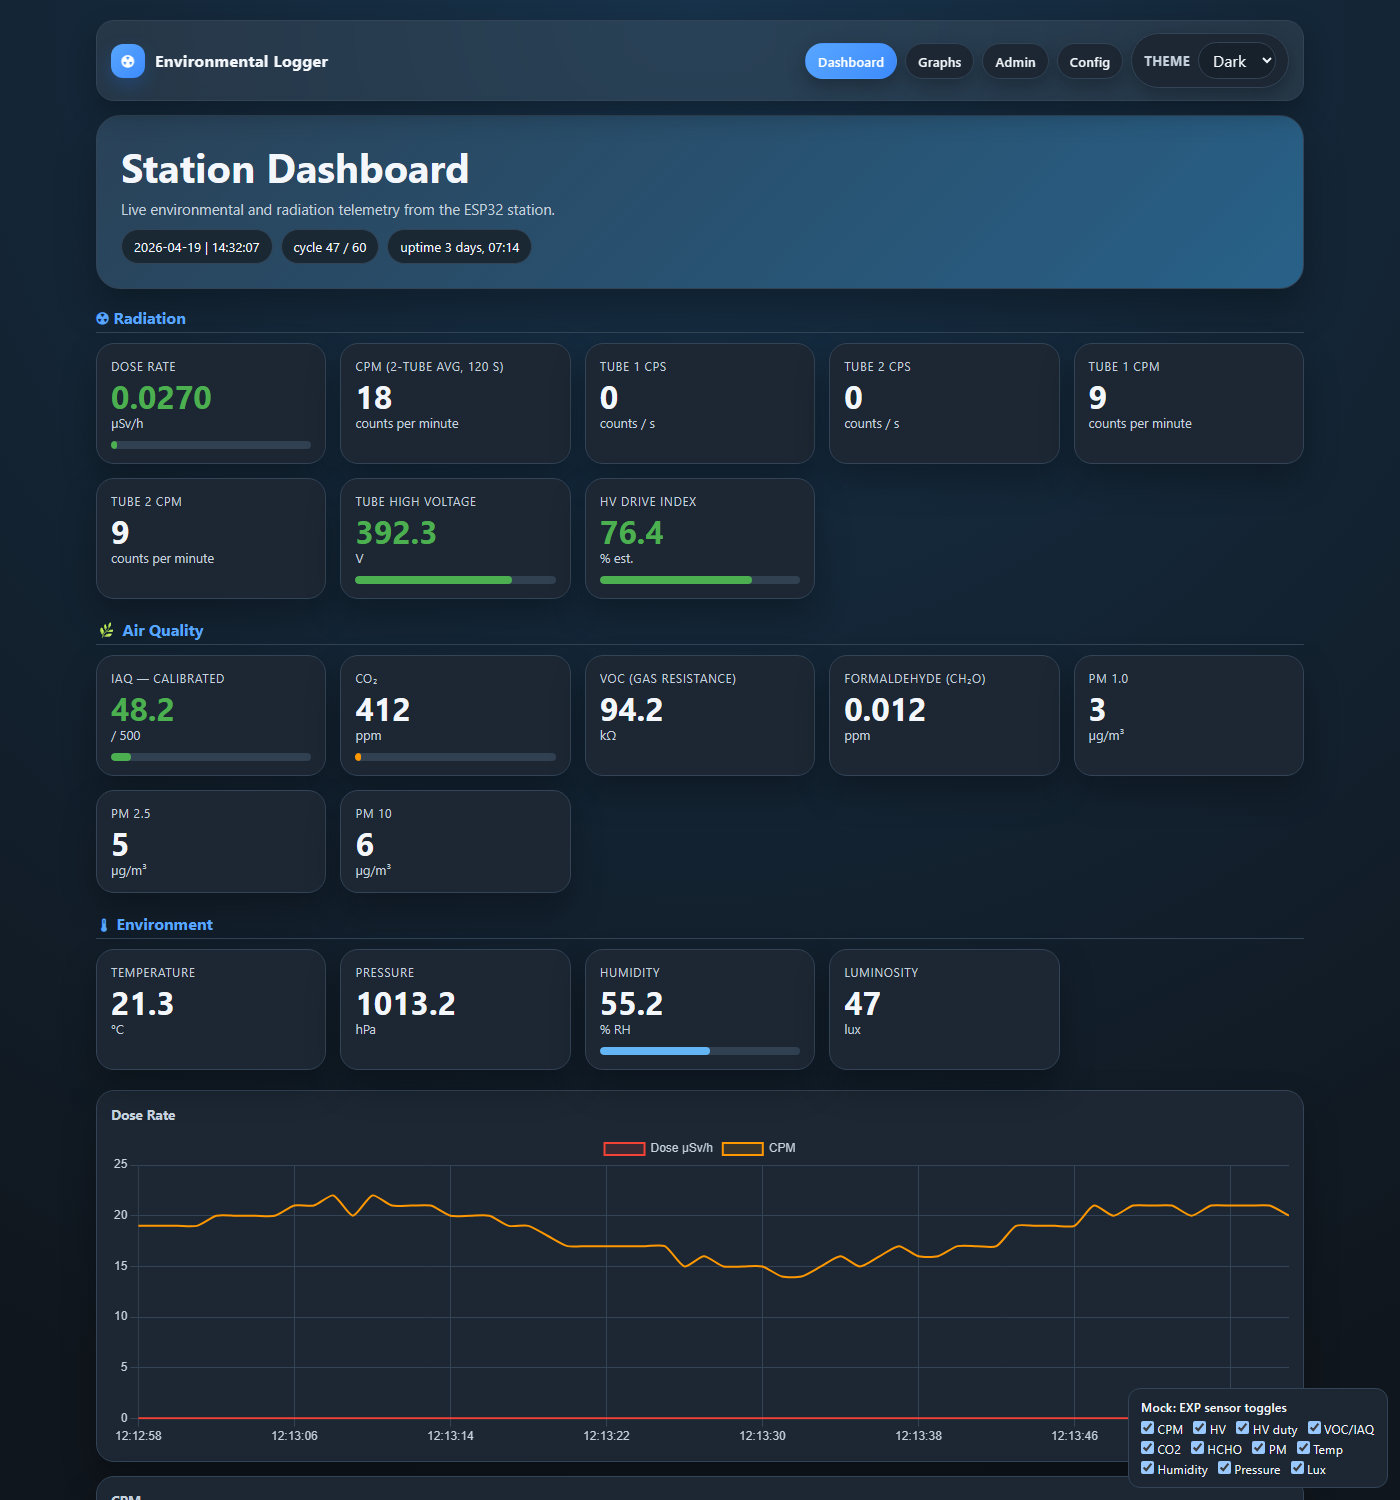
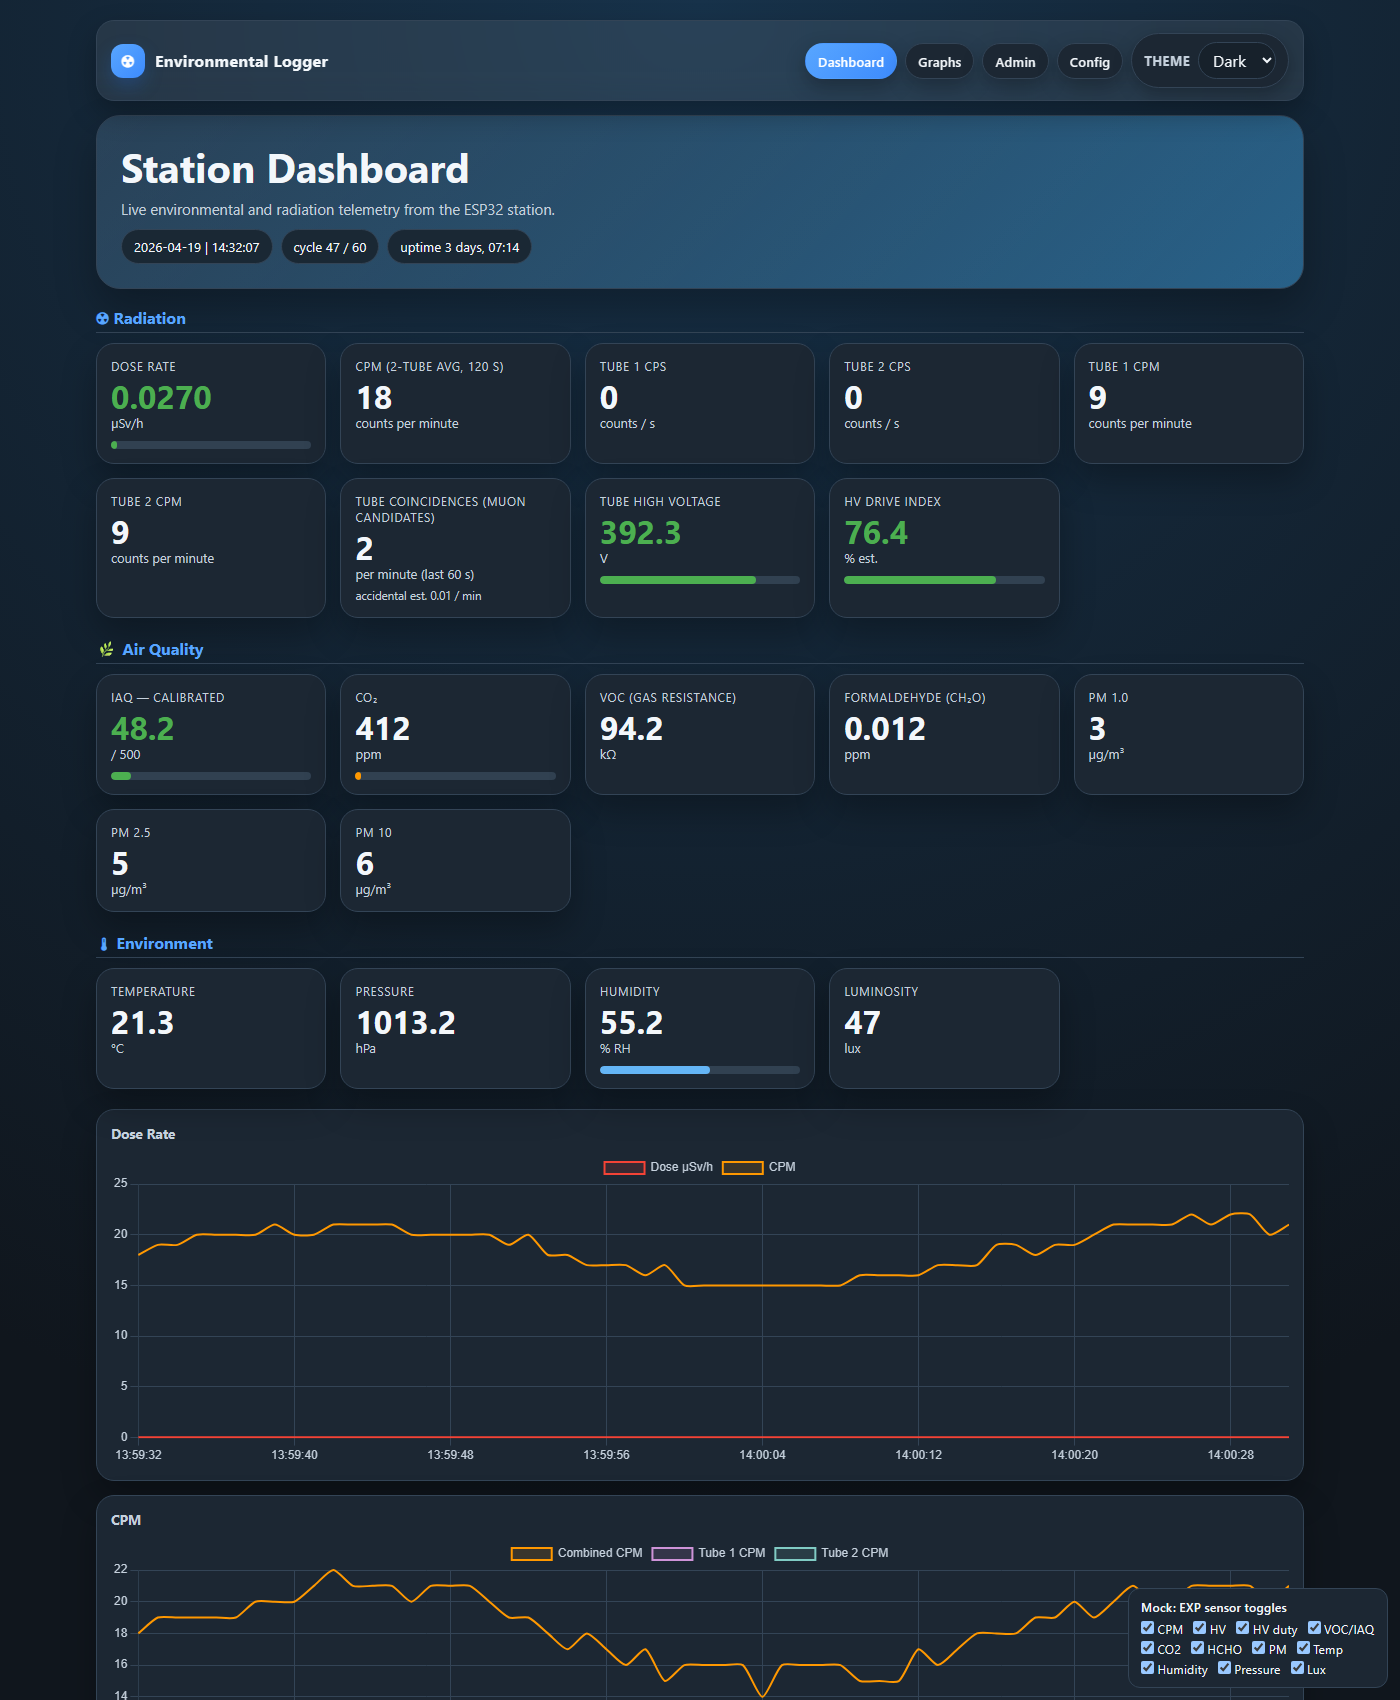
Add files via upload

diff --git a/images/graphs.html b/images/graphs.html
@@ -109,6 +109,7 @@ footer{text-align:center;padding:22px 0 10px;font-size:.77rem;color:var(--muted)
 <div class="card mt-4"><div class="card-body"><h2 class="h5 mb-3" style="color:var(--accent)">IAQ and CO2</h2><canvas id="graphsAir" height="90"></canvas></div></div>
 <div class="card mt-4"><div class="card-body"><h2 class="h5 mb-3" style="color:var(--accent)">Particulate Matter</h2><canvas id="graphsPm" height="90"></canvas></div></div>
 <div class="card mt-4"><div class="card-body"><h2 class="h5 mb-3" style="color:var(--accent)">HV, Luminosity, HCHO &amp; VOC</h2><canvas id="graphsEnv" height="90"></canvas></div></div>
+<div class="card mt-4"><div class="card-body"><h2 class="h5 mb-3" style="color:var(--accent)">Tube Coincidences (muon candidates per minute)</h2><canvas id="graphsCoinc" height="90"></canvas></div></div>
 
 <footer>&copy; 2022&ndash;2026 &middot; By <a href="https://www.don-zalmrol.be/" target="_blank" rel="noopener">Don Zalmrol</a> &middot; <a href="https://github.com/DonZalmrol" target="_blank" rel="noopener">GitHub</a> &middot; <span class="mono">v1.4e</span></footer>
 </main>
@@ -171,6 +172,10 @@ footer{text-align:center;padding:22px 0 10px;font-size:.77rem;color:var(--muted)
     ds('Luminosity lux',palette.light,gen(47,120,20)),
     ds('HCHO ppm',palette.hcho,gen(.012,.003,.001)),
     ds('VOC ppm',palette.voc,gen(.08,.02,.008))
+  ]);
+
+  mkChart('graphsCoinc',[
+    ds('Coincidences / min','#26c6da',genInt(2,2,2))
   ]);
 })();
 </script>

diff --git a/images/config-v1.4e.html b/images/config-v1.4e.html
@@ -237,6 +237,8 @@ footer{text-align:center;padding:22px 0 10px;font-size:.77rem;color:var(--muted)
             </div>
           </div>
           <div class="col-12"><div class="form-check form-switch"><input class="form-check-input" type="checkbox" checked><label class="form-check-label">Enable second GM tube</label></div></div>
+          <div class="col-md-8"><div class="form-check form-switch"><input class="form-check-input" type="checkbox" checked><label class="form-check-label">Tube coincidence (muon candidate) counter</label><div class="form-text">Counts pulses seen on both tubes within the window below. Needs two tubes; applied after reboot. Best with the tubes stacked one above the other.</div></div></div>
+          <div class="col-md-4"><label class="form-label">Coincidence window (us)</label><input class="form-control mono" type="number" min="5" max="1000" value="50"><div class="form-text">5 - 1000, default 50.</div></div>
           <div class="col-md-6">
             <label class="form-label">Tube 2 Type</label>
             <select class="form-select"><option>SBM-20</option><option selected>Custom</option></select>

diff --git a/images/config.html b/images/config.html
@@ -237,6 +237,8 @@ footer{text-align:center;padding:22px 0 10px;font-size:.77rem;color:var(--muted)
             </div>
           </div>
           <div class="col-12"><div class="form-check form-switch"><input class="form-check-input" type="checkbox" checked><label class="form-check-label">Enable second GM tube</label></div></div>
+          <div class="col-md-8"><div class="form-check form-switch"><input class="form-check-input" type="checkbox" checked><label class="form-check-label">Tube coincidence (muon candidate) counter</label><div class="form-text">Counts pulses seen on both tubes within the window below. Needs two tubes; applied after reboot. Best with the tubes stacked one above the other.</div></div></div>
+          <div class="col-md-4"><label class="form-label">Coincidence window (us)</label><input class="form-control mono" type="number" min="5" max="1000" value="50"><div class="form-text">5 - 1000, default 50.</div></div>
           <div class="col-md-6">
             <label class="form-label">Tube 2 Type</label>
             <select class="form-select"><option>SBM-20</option><option selected>Custom</option></select>

diff --git a/images/dashboard.html b/images/dashboard.html
@@ -109,6 +109,12 @@ a{color:var(--accent);}
       <div class="card-unit">counts per minute</div>
     </div>
     <div class="card">
+      <div class="card-title">Tube Coincidences (muon candidates)</div>
+      <div class="card-value">2</div>
+      <div class="card-unit">per minute (last 60 s)</div>
+      <div style="margin-top:6px;font-size:.72rem;color:var(--muted);">accidental est. 0.01 / min</div>
+    </div>
+    <div class="card">
       <div class="card-title">Tube High Voltage</div>
       <div class="card-value" style="color:#4caf50">392.3</div>
       <div class="card-unit">V</div>
